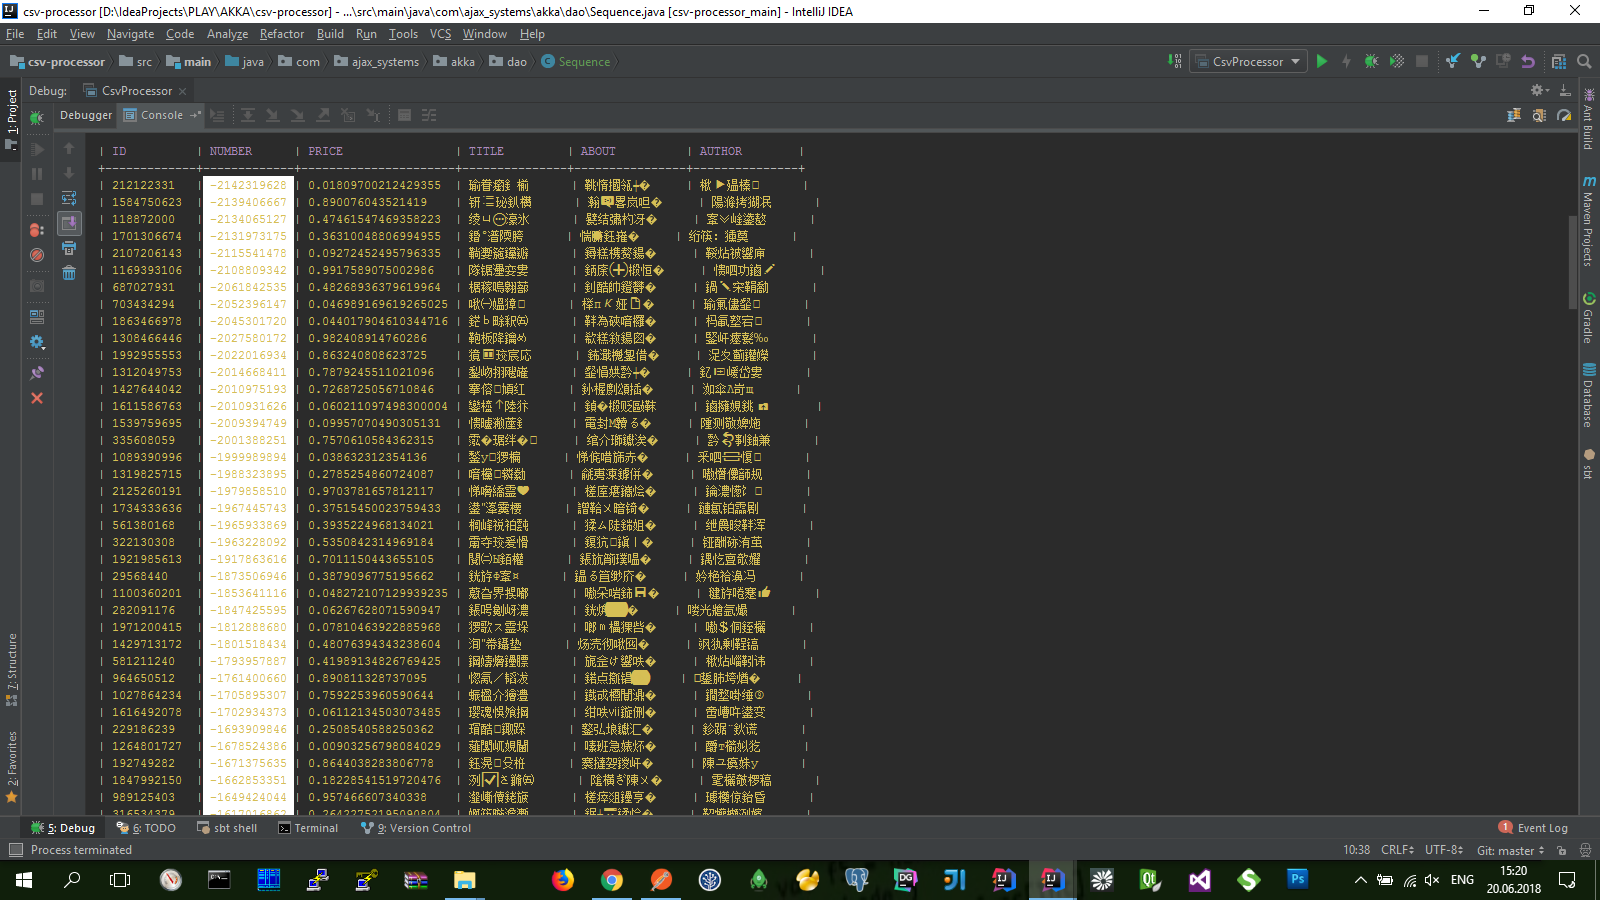
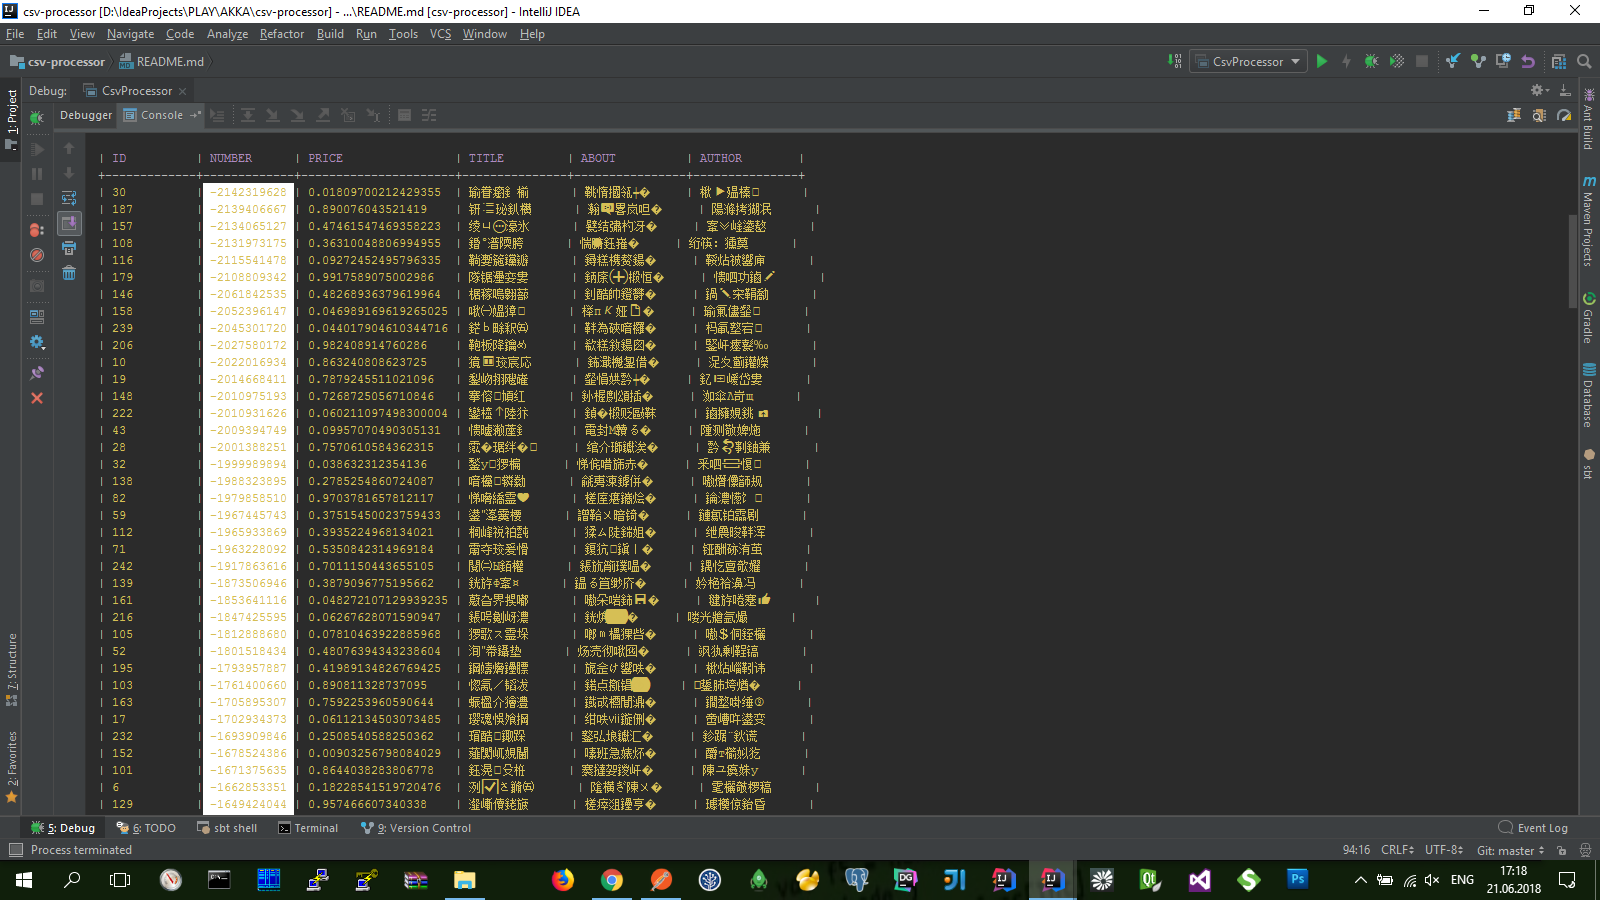
master

diff --git a/src/main/java/com/ajax_systems/akka/dao/CsvReportRepository.java b/src/main/java/com/ajax_systems/akka/dao/CsvReportRepository.java
@@ -1,7 +1,6 @@
 package com.ajax_systems.akka.dao;
 
 import com.ajax_systems.akka.model.CsvReport;
-
 import java.util.Collection;
 import java.util.concurrent.ConcurrentHashMap;
 
@@ -10,7 +9,9 @@ public class CsvReportRepository {
 
     private final ConcurrentHashMap<Integer, CsvReport> writers = new ConcurrentHashMap<>();
 
-    private final Sequence sequence = new Sequence();
+    private final AmountSequence seqAmount = new AmountSequence();
+
+    private final IdSequence seqId = new IdSequence();
 
     public Collection<CsvReport> find() {
         return writers.values();
@@ -25,10 +26,10 @@ public class CsvReportRepository {
         CsvReport newWriter = new CsvReport();
 
         if(writer!=null) {
-            id = writer.hashCode();
+            id = seqId.get(writer);
             newWriter.writer(writer.getWriter())
                     .id(id)
-                    .amount(sequence.getAmount(writer))
+                    .amount(seqAmount.get(writer))
                     .jsonUrl(writer.getJsonUrl())
                     .csvUrl(writer.getCsvUrl());
             writers.put(id, newWriter);

diff --git a/src/main/java/com/ajax_systems/akka/dao/BookRepository.java b/src/main/java/com/ajax_systems/akka/dao/BookRepository.java
@@ -10,6 +10,8 @@ public class BookRepository {
 
     private final ConcurrentSkipListMap<Integer, Book> books = new ConcurrentSkipListMap<>();
 
+    private final IdSequence seqId = new IdSequence();
+
     public List<Book> find() {
         return new ArrayList<>(books.values());
     }
@@ -23,7 +25,7 @@ public class BookRepository {
         Book newBook = new Book();
 
         if (book!=null) {
-            id = book.hashCode();
+            id = seqId.get(book);
             newBook.id(id)
                     .title(book.getTitle())
                     .author(book.getAuthor())

diff --git a/src/main/java/com/ajax_systems/akka/dao/AmountSequence.java b/src/main/java/com/ajax_systems/akka/dao/AmountSequence.java
@@ -1,0 +1,16 @@
+package com.ajax_systems.akka.dao;
+
+import java.util.concurrent.ConcurrentHashMap;
+
+
+public class AmountSequence<T> {
+
+    private ConcurrentHashMap<T, Long> sequence = new ConcurrentHashMap<>();
+
+    public Long get(T o) {
+        Long amount = sequence.get(o);
+        amount = (amount!=null) ? amount + 1 : 1;
+        sequence.put(o, amount);
+        return amount;
+    }
+}

diff --git a/src/main/java/com/ajax_systems/akka/dao/IdSequence.java b/src/main/java/com/ajax_systems/akka/dao/IdSequence.java
@@ -1,0 +1,16 @@
+package com.ajax_systems.akka.dao;
+
+import java.util.concurrent.ConcurrentHashMap;
+
+
+public class IdSequence<T> {
+
+    private ConcurrentHashMap<T, Integer> sequence = new ConcurrentHashMap<>();
+
+    public Integer get(T o) {
+        Integer id = sequence.get(o);
+        if (id==null) id = sequence.size() + 1;
+        sequence.put(o, id);
+        return id;
+    }
+}

diff --git a/src/main/java/com/ajax_systems/akka/model/Book.java b/src/main/java/com/ajax_systems/akka/model/Book.java
@@ -114,8 +114,7 @@ public class Book implements Serializable, Comparable<Book>  {
 
     @Override
     public int hashCode() {
-
-        return Math.abs(Objects.hash(title, author, about));
+        return Objects.hash(title, author, about);
     }
 
     @Override

diff --git a/src/main/java/com/ajax_systems/akka/model/CsvReport.java b/src/main/java/com/ajax_systems/akka/model/CsvReport.java
@@ -96,7 +96,6 @@ public class CsvReport implements Serializable {
 
     @Override
     public int hashCode() {
-
-        return Math.abs(Objects.hash(writer));
+        return Objects.hash(writer);
     }
 }

diff --git a/README.md b/README.md
@@ -89,7 +89,7 @@ http://< HOST >/books-by-writer/<PARAM>.csv
 
 ![8](8.jpg)
 
-![9_1](9_1.jpg)
+![9_1](9_1.jpg) 
 
 ![9_2](9_2.jpg)
 
